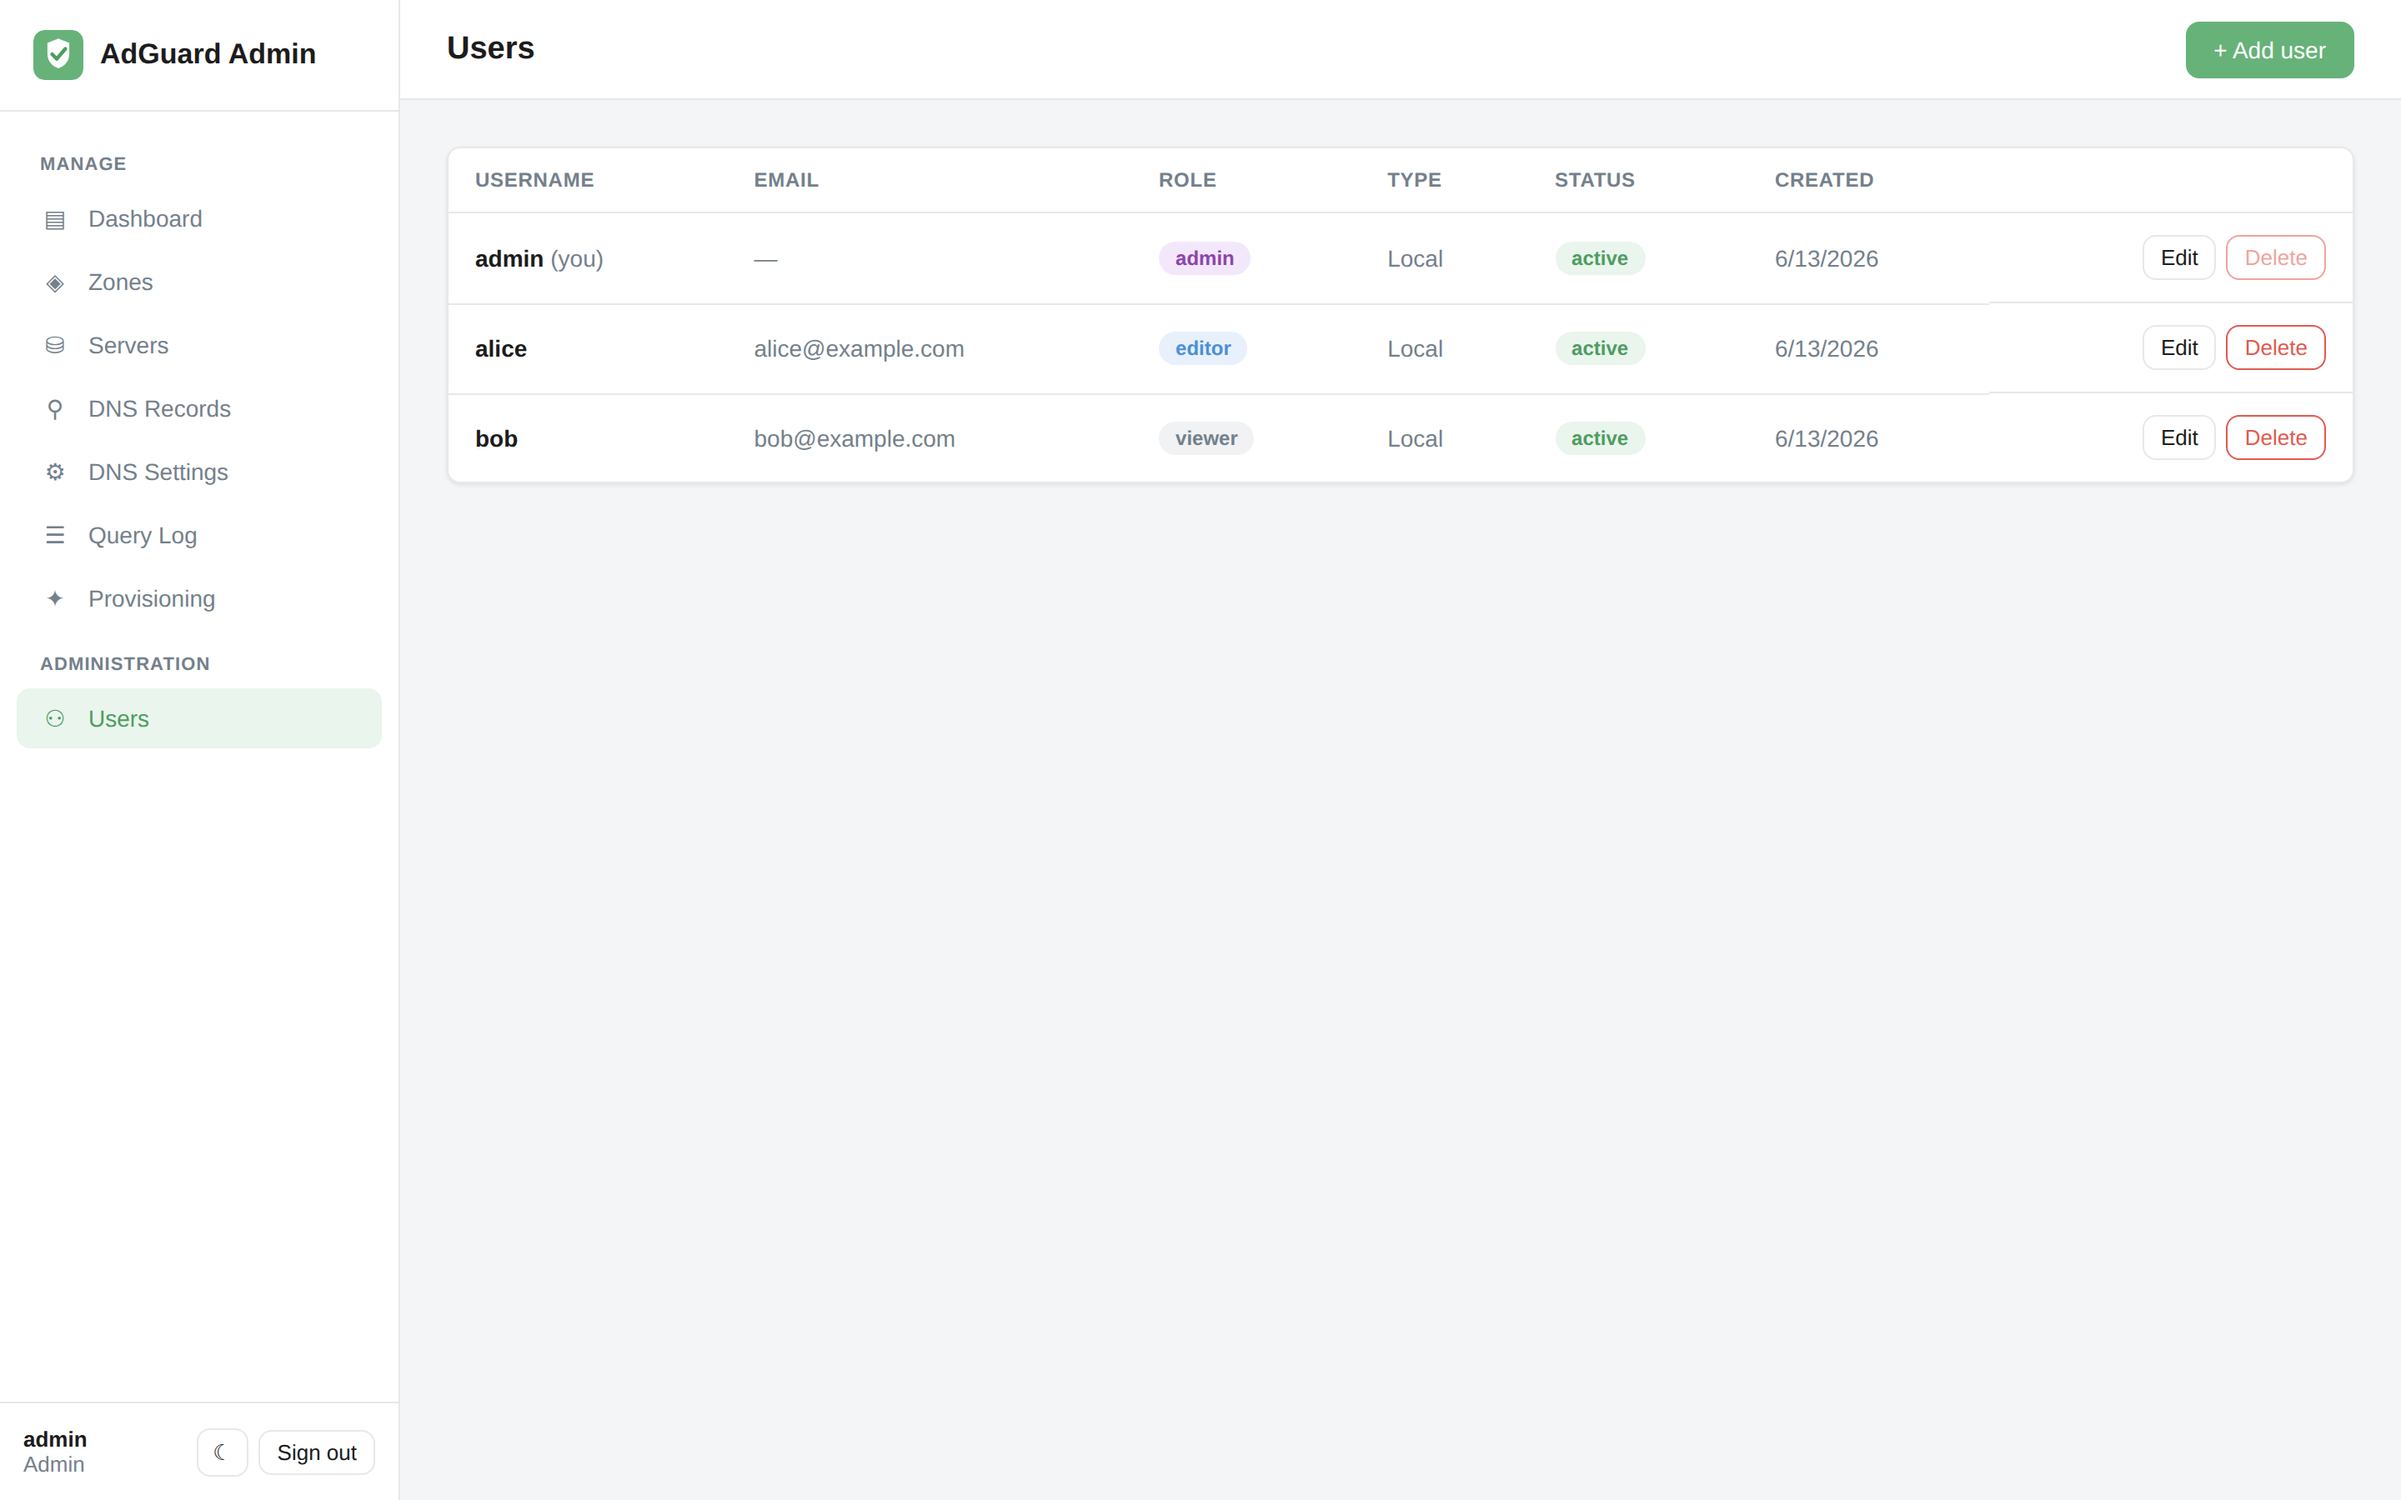
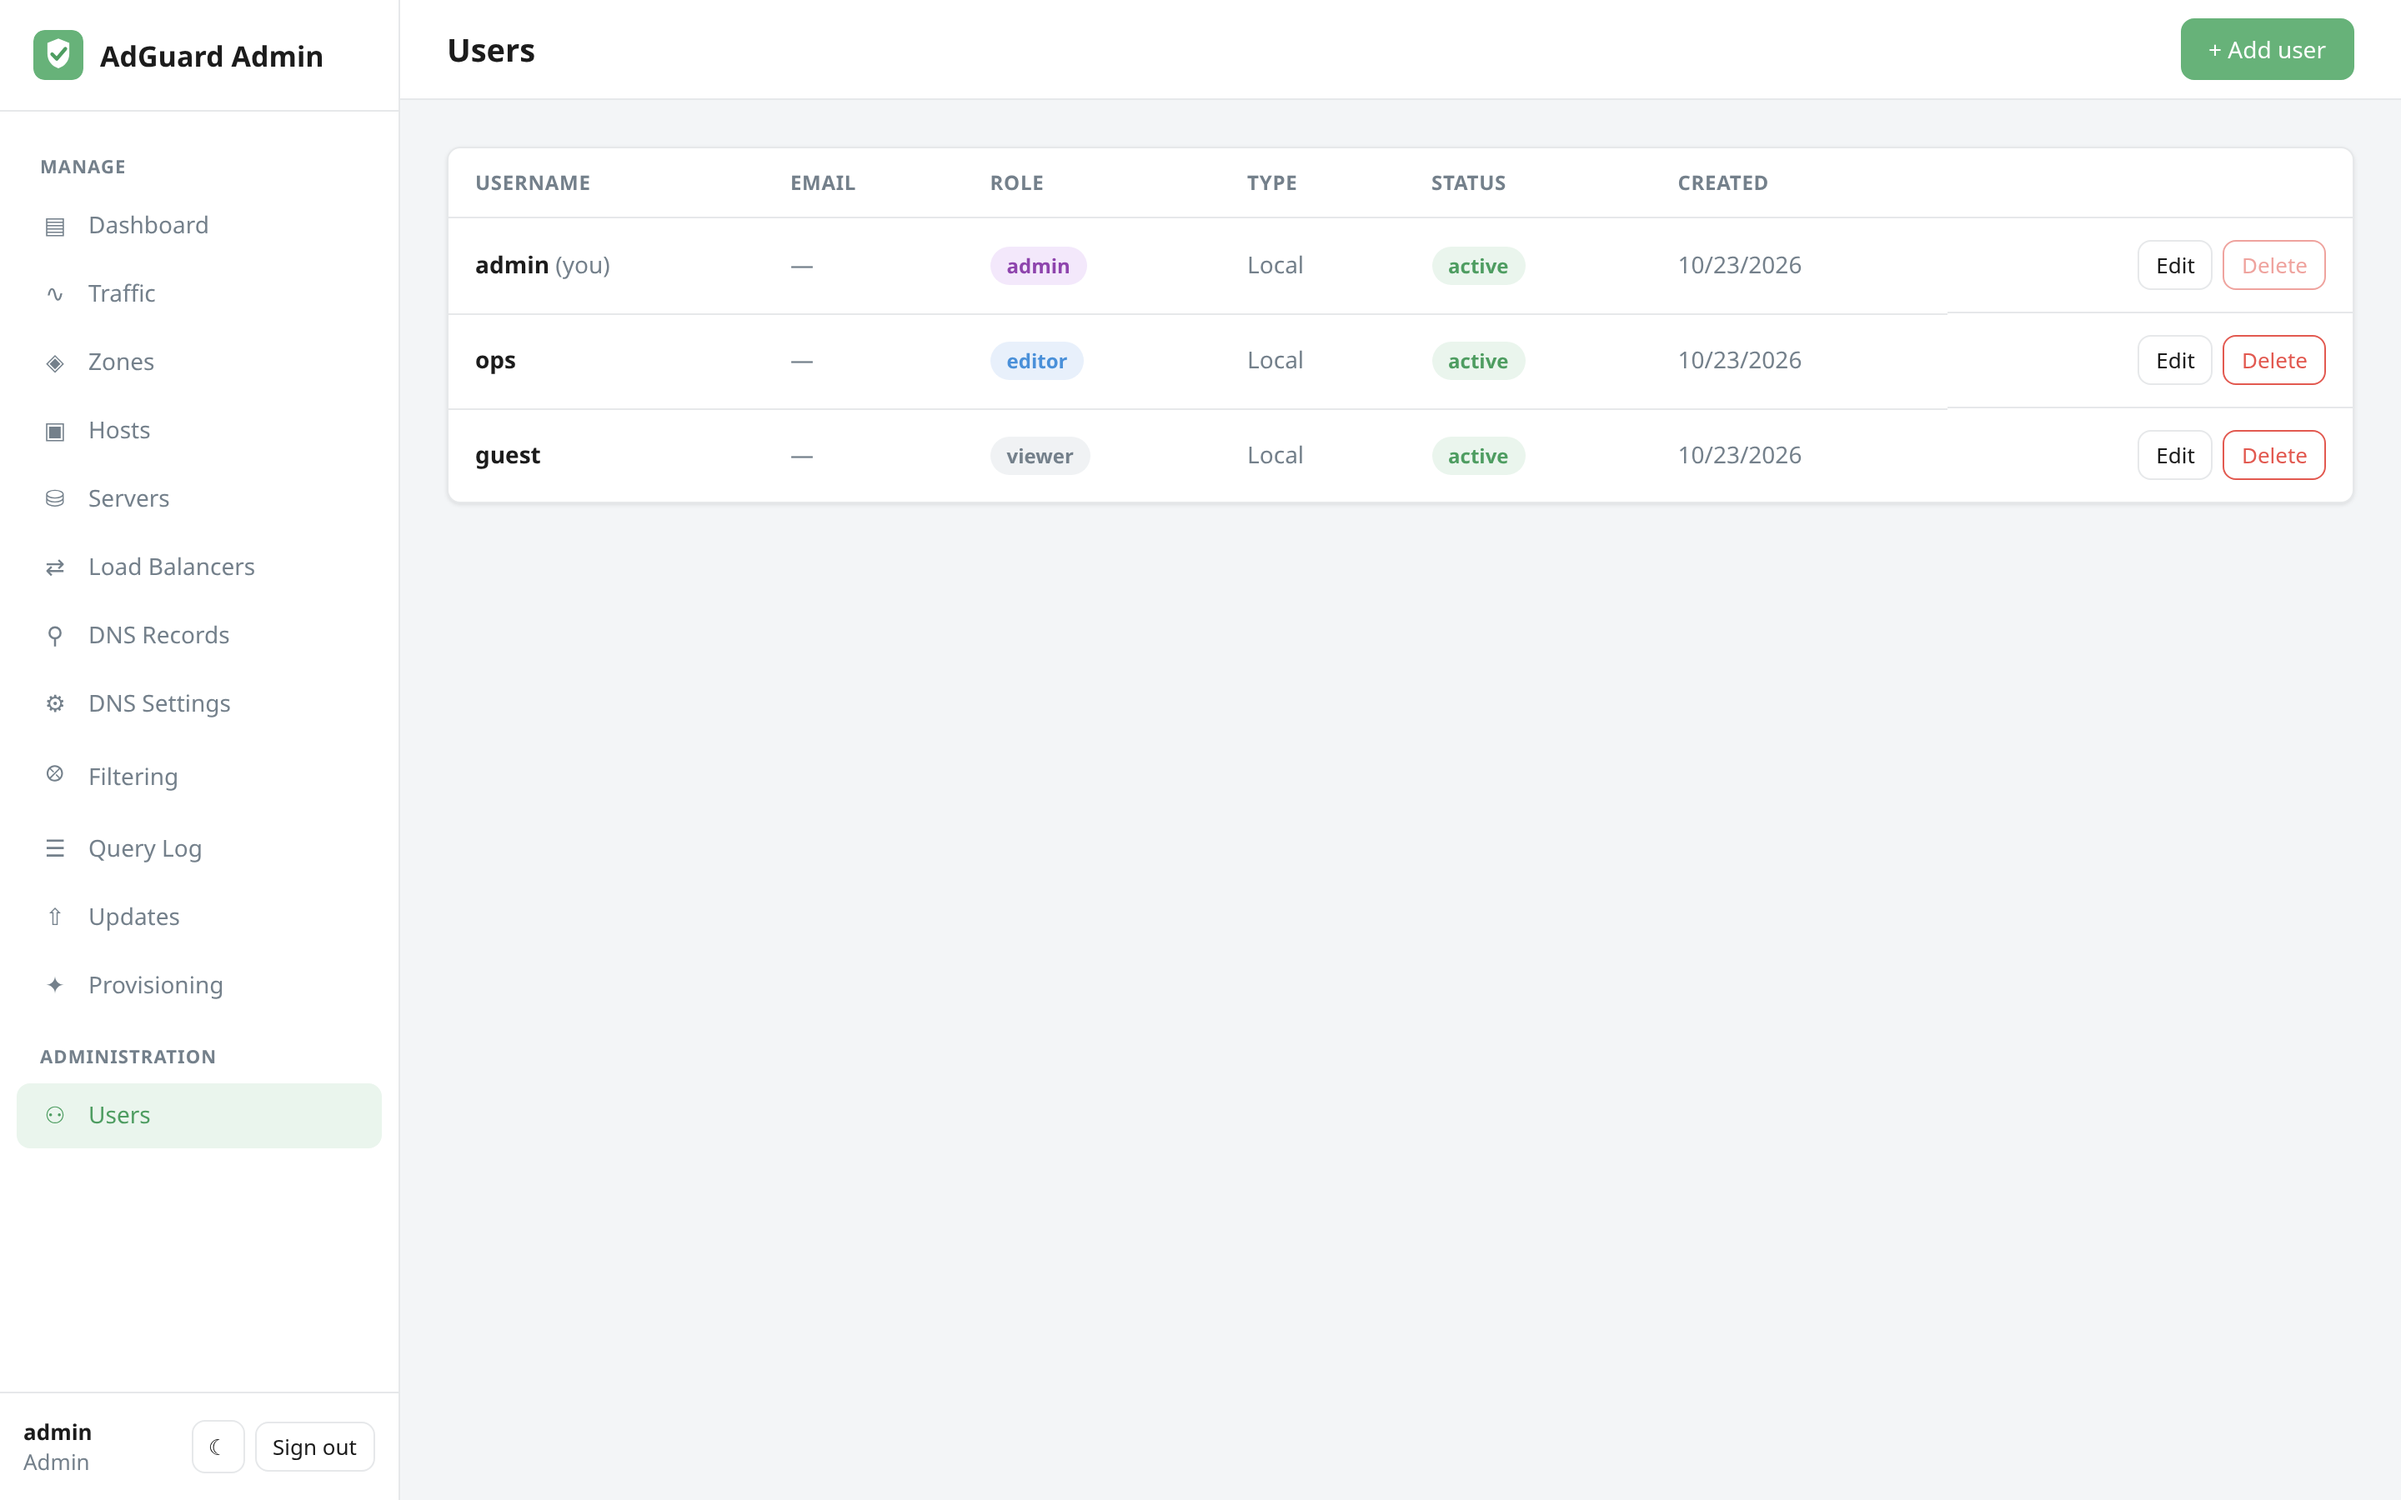
Refresh every screenshot and fix two balancer-host display bugs
All documentation screenshots are regenerated from a seeded local instance
(a stand-in AdGuard API answers for six servers, with nothing from a real
fleet in them), at the same 2x scale as before: dashboard, traffic, zones,
hosts, servers, load balancers with the IPVS detail open, records, DNS
settings, filtering, query log, updates, provisioning, users and login.
The README gallery gains hosts, load balancers, traffic and updates; the
hosts, load-balancing, updates and filtering guides get their screenshot,
and the zones guide's missing image now exists.

Two bugs the screenshots exposed: a host whose balancer runs in ipvs mode
was labelled "dnsdist" on the Hosts page (the role is now named after what
runs there, keepalived), and the balancer detail panel's live read asked an
ipvs host for its dnsdist role, which it does not have, so every ipvs
detail panel showed a 502; it now reads keepalived in ipvs mode and dnsdist
otherwise, with a regression test. The panel also says when it is showing
stored state after a failed live read instead of "loading" forever.

diff --git a/frontend/src/views/LoadBalancers.vue b/frontend/src/views/LoadBalancers.vue
@@ -509,6 +509,7 @@ onMounted(load)
           <h2>{{ selected.name }} — backends</h2>
           <span class="muted" style="font-size:12px">
             <template v-if="liveAt">live · {{ liveAt.toLocaleTimeString() }}</template>
+            <template v-else-if="liveError">stored state · live read failed</template>
             <template v-else>loading live data…</template>
           </span>
         </div>

diff --git a/backend/tests/test_hosts_api.py b/backend/tests/test_hosts_api.py
@@ -7,7 +7,7 @@ import os
 import pytest
 
 from app.config import settings
-from app.models import Agent, LoadBalancer, LoadBalancerBackend, Server
+from app.models import Agent, LbMode, LoadBalancer, LoadBalancerBackend, Server
 from app.routers import agents as agents_router
 from app.routers import loadbalancers as lb_router
 from tests.test_hosts import make_agent, make_lb, make_server
@@ -252,6 +252,21 @@ def test_ipvs_mode_needs_vip_and_one_mode_per_zone(client, editor_headers, sessi
     assert r.status_code == 201
     # Switching one of them alone is refused too.
     assert client.patch(f"/api/load-balancers/{lb['id']}", json={"mode": "dnsdist"}, headers=editor_headers).status_code == 409
+
+
+def test_ipvs_live_state_reads_keepalived_only(client, editor_headers, session, zone, stub):
+    """An ipvs host runs no dnsdist, so the live read must not ask for it
+    (it used to, and every ipvs detail panel showed a 502)."""
+    zone.vip = "10.0.0.53/24"
+    session.add(zone)
+    session.commit()
+    agent = make_agent(session, zone=zone)
+    make_server(session, "dns-a", zone, agent)
+    lb = make_lb(session, "lb", zone, agent, mode=LbMode.ipvs)
+    stub.roles["keepalived"] = {"state": "ready", "vip_owner": True, "ipvs": {"present": True, "director": True, "backends": []}}
+    r = client.get(f"/api/load-balancers/{lb.id}/state", headers=editor_headers)
+    assert r.status_code == 200, r.text
+    assert r.json()["keepalived"]["ipvs"]["director"] is True and r.json()["dnsdist"] is None
 
 
 def test_ipvs_drain_restart_and_delete_target_keepalived(client, editor_headers, session, zone, stub):

diff --git a/backend/app/routers/agents.py b/backend/app/routers/agents.py
@@ -18,7 +18,7 @@ from ..config import settings
 from ..deps import CurrentUser, RequireAdmin, RequireEditor, SessionDep
 from .. import agent_bin
 from ..hosts import reconcile_agent, release_references, update_agent_now
-from ..models import Agent, LoadBalancer, Server, SyncStatus, Zone
+from ..models import Agent, LbMode, LoadBalancer, Server, SyncStatus, Zone
 from ..pki import cert_not_after, get_pki, sign_agent_csr
 from ..schemas import AgentLogs, AgentRead, AgentServiceResult, AgentUpdate
 
@@ -31,12 +31,17 @@ ARCHES = agent_bin.ARCHES
 
 def to_read(session, agent: Agent) -> AgentRead:
     server_ids = list(session.exec(select(Server.id).where(Server.agent_id == agent.id)).all())
-    lb_ids = list(session.exec(select(LoadBalancer.id).where(LoadBalancer.agent_id == agent.id)).all())
+    lbs = list(session.exec(select(LoadBalancer).where(LoadBalancer.agent_id == agent.id)).all())
+    lb_ids = [lb.id for lb in lbs]
     roles = []
     if server_ids:
         roles.append("adguard")
-    if lb_ids:
+    # The balancer role is named after what actually runs on the host: dnsdist
+    # in dnsdist mode, keepalived (VRRP + IPVS) in ipvs mode.
+    if any(lb.mode == LbMode.dnsdist for lb in lbs):
         roles.append("dnsdist")
+    if any(lb.mode == LbMode.ipvs for lb in lbs):
+        roles.append("keepalived")
     item = AgentRead.model_validate(agent, from_attributes=True)
     item.roles = roles
     item.server_ids = server_ids

diff --git a/backend/app/routers/loadbalancers.py b/backend/app/routers/loadbalancers.py
@@ -184,13 +184,19 @@ async def live_state(lb_id: int, _: CurrentUser, session: SessionDep):
     url = agent.url
     session.commit()
     out = LoadBalancerState()
+    # In ipvs mode the host runs no dnsdist, so keepalived is the required
+    # read and dnsdist is skipped; in dnsdist mode it is the other way round
+    # (keepalived only exists when the zone has a VIP).
     try:
         async with AgentClient(url) as client:
-            out.dnsdist = await client.get_role("dnsdist")
-            try:
+            if lb.mode == LbMode.ipvs:
                 out.keepalived = await client.get_role("keepalived")
-            except AgentError:
-                out.keepalived = None
+            else:
+                out.dnsdist = await client.get_role("dnsdist")
+                try:
+                    out.keepalived = await client.get_role("keepalived")
+                except AgentError:
+                    out.keepalived = None
     except AgentError as exc:
         raise HTTPException(status_code=502, detail=str(exc))
     return out

diff --git a/README.md b/README.md
@@ -60,6 +60,10 @@ server comes back online.
 | [![DNS records](docs/images/records.png)](docs/images/records.png) | [![DNS settings](docs/images/dns-settings.png)](docs/images/dns-settings.png) |
 | **Servers** — status, version, sync state | **Provisioning** — one-line host installs |
 | [![Servers](docs/images/servers.png)](docs/images/servers.png) | [![Provisioning](docs/images/provision.png)](docs/images/provision.png) |
+| **Hosts** — agents, roles, load, disk, certificates | **Load balancers** — VIP owner, IPVS backends, diagnostics |
+| [![Hosts](docs/images/hosts.png)](docs/images/hosts.png) | [![Load balancers](docs/images/load-balancers.png)](docs/images/load-balancers.png) |
+| **Traffic** — history, per-server totals, top lists | **Updates** — AdGuard Home upgrades, rolling and scheduled |
+| [![Traffic](docs/images/traffic.png)](docs/images/traffic.png) | [![Updates](docs/images/updates.png)](docs/images/updates.png) |
 
 ## Documentation
 

diff --git a/docs/concepts.md b/docs/concepts.md
@@ -20,7 +20,7 @@ A **zone** is a logical group of servers — `home`, `cloud`, `iot-vlan`, `branc
 Zones do two jobs:
 
 - They're the unit you **scope records and settings to** (see below).
-- They're a **filter** everywhere — dashboard metrics, the query log, and server lists
+- They're a **filter** everywhere — the Dashboard and Traffic pages, the query log, and server lists
   can all be narrowed to a single zone.
 
 A zone can have zero servers (handy when planning) and a server belongs to at most one

diff --git a/docs/updates.md b/docs/updates.md
@@ -5,6 +5,8 @@ the binary on a bare-metal box, the image behind a container — not just their 
 configuration. The **Updates** page shows every server's installed version, what's
 available, and who is responsible for installing it.
 
+![Updates](images/updates.png)
+
 ## Who performs the upgrade
 
 This is the one thing worth understanding before turning anything on, because it

diff --git a/docs/filtering.md b/docs/filtering.md
@@ -9,6 +9,8 @@ in scope during [reconciliation](concepts.md#reconciliation).
 > filtering** enabled (set it on the [Servers](servers.md#per-server-options) page).
 > Servers without it keep their own filtering config untouched.
 
+![Filtering](images/filtering.png)
+
 ## Blocklists
 
 A blocklist is a subscription to a hosts/adblock-syntax list that AdGuard fetches and

diff --git a/docs/load-balancing.md b/docs/load-balancing.md
@@ -47,6 +47,8 @@ host's dnsdist takes over with the same backend list. No extra machines.
 
 Dedicated balancer hosts work too: provision them with only the *dnsdist* role.
 
+![Load balancers](images/load-balancers.png)
+
 ## The shape (IPVS direct-routing mode)
 
 ```

diff --git a/docs/hosts.md b/docs/hosts.md
@@ -6,6 +6,8 @@ thing the control plane talks to on a managed box, and it is reachable **only
 over mutual TLS**.
 
 
+![Hosts](images/hosts.png)
+
 ## What the agent does
 
 - **Converges roles.** The control plane sends each role a *desired state*
